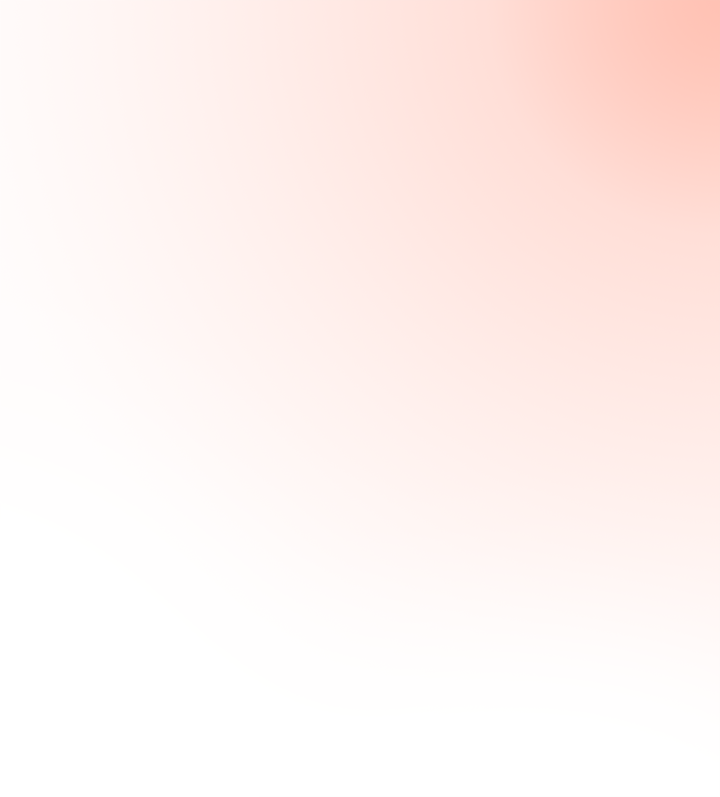
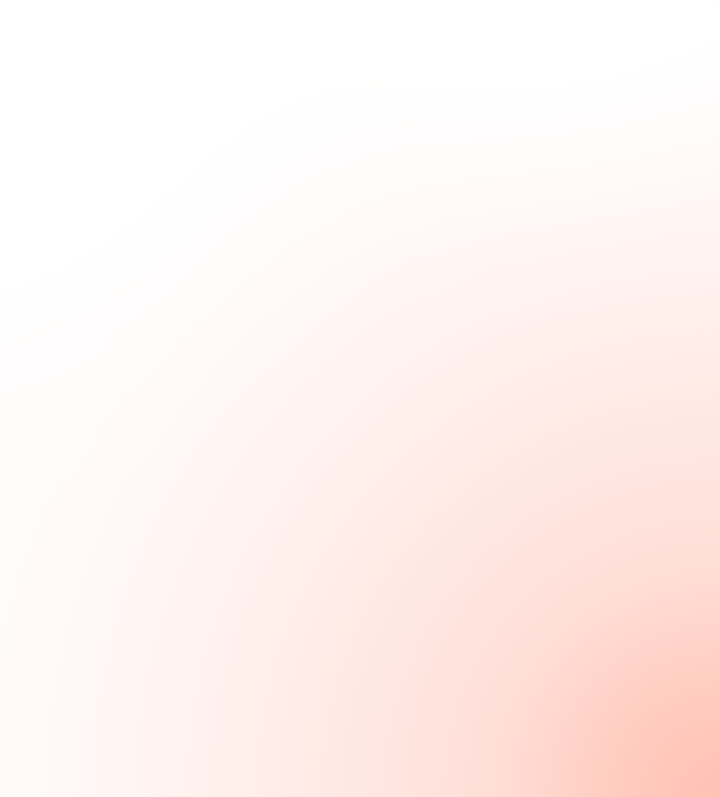
Updates

Changed region(s): [[0.3972, 0.6926, 1.0, 1.0], [0.3972, 0.0, 1.0, 0.3312]]

diff --git a/js/app.js b/js/app.js
@@ -23,6 +23,49 @@ function onError(error) {
           'message: ' + error.message + '\n');
 }
 
+//--External URL--//
+function loadURL(url){ 
+    if (devicePlatform == 'Android') {
+        navigator.app.loadUrl(url, { openExternal:true }); 
+    }
+    else
+    {
+        window.open(url, '_system', 'location=no');
+        return false;
+    }
+}
+
+// Load user points and gauge //
+function loadPoints(uid) {
+    console.log('Igot here and the uid is '+uid);
+
+    $.ajax({
+        type       : "POST",
+        url        : formurl,
+        crossDomain: true,
+        beforeSend : function() {$.mobile.loading('show')},
+        complete   : function() {$.mobile.loading('hide')},
+        data       : "tipe=getPoints&uid="+uid,
+        dataType   : 'json',
+        success    : function(response) {
+            var gaugeImage = response["gaugeImage"];
+            var pointsPre = response["pointsPre"];
+            var pointsNow = response["pointsNow"];
+            
+            $('#gaugeImage').empty();
+            $('#gaugeImage').append(gaugeImage); 
+            $('#pointsPre').empty();
+            $('#pointsPre').append(pointsPre);
+            $('#pointsNow').empty();
+            $('#pointsNow').append(pointsNow);
+        },
+        error      : function() {
+            console.error("error");
+            alert('Unable to connect to server, please try again...');                  
+        }
+    });
+}
+
 $(document).on("pageshow", "#dashboard", function(){ 
     
     loginName = localStorage.getItem('log_name');
@@ -32,6 +75,71 @@ $(document).on("pageshow", "#dashboard", function(){
     $('#userName').append(loginName);
     $('#logSurname').empty();
     $('#logSurname').append(loginSurname);
+});
+
+$(document).on("pageshow", "#rewards", function(){ 
+    loadPoints(localStorage.getItem('log_uid'));
+    console.log('Igot here and the uid is '+localStorage.getItem('log_uid'));
+});
+
+$(document).on("pageshow", "#ranking", function(){ 
+    
+});
+
+$(document).on("pageshow", "#whatsnew", function(){ 
+    
+});
+
+$(document).on("pageshow", "#logout", function(){
+    localStorage.log_name = '';
+    localStorage.log_surname = '';
+    localStorage.log_uid = '';
+    localStorage.log_remeber = '';
+    localStorage.log_email = '';
+    
+    $('#loginForm').submit(function(e)
+    {
+        console.log($(this).serialize());
+        loading = true;
+        $.ajax({
+            type       : "POST",
+            url        : formurl,
+            crossDomain: true,
+            beforeSend : function() {$.mobile.loading('show')},
+            complete   : function() {$.mobile.loading('hide')},
+            data       : "tipe=login&"+$(this).serialize(),
+            dataType   : 'json',
+            success    : function(response) {
+                
+                var resultHtml = response["html"];
+                var resultError = response["error"];
+                loginName = response['name'];
+                loginSurname = response['surname'];
+                loginUID = response['user_id'];
+                loginRemember = response['remember'];
+                loginEmail = response['email'];
+                
+                if (resultError == '1') {
+                    $('#loginError').empty();
+                    $('#loginError').append(resultHtml);  
+                    $('#loginError').popup("open", {transition: "slidedown"});
+                } else {
+                    localStorage.log_name = loginName;
+                    localStorage.log_surname = loginSurname;
+                    localStorage.log_uid = loginUID;
+                    localStorage.log_remeber = loginRemember;
+                    localStorage.log_email = loginEmail;
+
+                    $.mobile.changePage("dashboard.html#dashboard");
+                }
+            },
+            error      : function() {
+                console.error("error");
+                alert('Unable to connect to server, please try again...');                  
+            }
+        });
+        e.preventDefault();
+    });
 });
 
 $(document).on("pageshow", "#login", function(){ 
@@ -83,8 +191,6 @@ $(document).on("pageshow", "#login", function(){
 
 $(document).on("pageshow", "#forgot", function(){ 
     
-    $("#content-body-main").height(contentH);
-    
     $('#forgotForm').submit(function(e)
     {
         console.log($(this).serialize());
@@ -121,8 +227,6 @@ $(document).on("pageshow", "#forgot", function(){
 });
 
 $(document).on("pageshow", "#signup", function(){ 
-    
-    $("#content-body-main").height(contentH);
     
     $('#signupForm').submit(function(e)
     {

diff --git a/whatsnew.html b/whatsnew.html
@@ -2,34 +2,43 @@
 <html>
     <head></head>
     <body>
-    <div data-role="page" id="dashboard">
+    <div data-role="page" id="whatsnew">
         <div data-role="header" id="header">
             <img src="images/logo.png" class="resposive">
         </div><!-- /header -->
         <div role="main" class="ui-content" id="content">
             <div id="content-title">
                 <div class="ui-grid-a">
-                    <div class="ui-block-a" id="content-head"><h2>Hello <span id="userName"></span></h2></div>
+                    <div class="ui-block-a" id="content-head"><h2>What's new?</h2></div>
                     <div class="ui-block-b" style="text-align: center"><a href="logout.html" class="my-log" data-role="none" style="text-align: center; text-decoration: none; color: #333; text-shadow: none;">Logout</a></div>
                 </div>
-                
             </div>
             <div id="content-body-main">
-                <a href="rewards.html"><img src="images/myRewardsBut.png" class="resposive" style="border: 1px solid #d32627;"></a>
-                <p></p>
-                <a href="ranking.html"><img src="images/rankingsBut.png" class="resposive" style="border: 1px solid #d32627;"></a>
-                <p></p>
-                <a href="whatsnew.html"><img src="images/wahtsNewBut.png" class="resposive" style="border: 1px solid #d32627;"></a>
-                <p></p>
-                <a href="#" onclick="loadURL('http://www.uefa.com/uefachampionsleague/season=2015/standings/index.html','_system');"><img src="images/uefaBut.png" class="resposive" style="border: 1px solid #d32627;"></a>
+                <ul data-role="listview" data-inset="false">
+                    <li><a href="#">
+                        <img src="../_assets/img/album-bb.jpg">
+                    <h2>Broken Bells</h2>
+                    <p>Broken Bells</p></a>
+                    </li>
+                    <li><a href="#">
+                        <img src="../_assets/img/album-hc.jpg">
+                    <h2>Warning</h2>
+                    <p>Hot Chip</p></a>
+                    </li>
+                    <li><a href="#">
+                        <img src="../_assets/img/album-p.jpg">
+                    <h2>Wolfgang Amadeus Phoenix</h2>
+                    <p>Phoenix</p></a>
+                    </li>
+                </ul>
             </div>
         </div><!-- /content -->
         <div data-role="footer" id="footer" data-position="fixed">
             <div class="ui-grid-d">
-                <div class="ui-block-a"><a href="dashboard.html"><img src="images/homeNavA.png" class="resposive"></a></div>
+                <div class="ui-block-a"><a href="dashboard.html"><img src="images/homeNav.png" class="resposive"></a></div>
                 <div class="ui-block-b"><a href="rewards.html"><img src="images/rewardsNav.png" class="resposive"></a></div>
                 <div class="ui-block-c"><a href="ranking.html"><img src="images/rankingNav.png" class="resposive"></a></div>
-                <div class="ui-block-d"><a href="whatsnew.html"><img src="images/newNav.png" class="resposive"></a></div>
+                <div class="ui-block-d"><a href="whatsnew.html"><img src="images/newNavA.png" class="resposive"></a></div>
                 <div class="ui-block-e"><a href="#" onclick="loadURL('http://www.uefa.com/uefachampionsleague/season=2015/standings/index.html','_system');"><img src="images/uefaNav.png" class="resposive"></a></div>
             </div>
         </div><!-- /footer -->

diff --git a/ranking.html b/ranking.html
@@ -2,33 +2,42 @@
 <html>
     <head></head>
     <body>
-    <div data-role="page" id="dashboard">
+    <div data-role="page" id="ranking">
         <div data-role="header" id="header">
             <img src="images/logo.png" class="resposive">
         </div><!-- /header -->
         <div role="main" class="ui-content" id="content">
             <div id="content-title">
                 <div class="ui-grid-a">
-                    <div class="ui-block-a" id="content-head"><h2>Hello <span id="userName"></span></h2></div>
+                    <div class="ui-block-a" id="content-head"><h2>Rankings</h2></div>
                     <div class="ui-block-b" style="text-align: center"><a href="logout.html" class="my-log" data-role="none" style="text-align: center; text-decoration: none; color: #333; text-shadow: none;">Logout</a></div>
                 </div>
-                
             </div>
             <div id="content-body-main">
-                <a href="rewards.html"><img src="images/myRewardsBut.png" class="resposive" style="border: 1px solid #d32627;"></a>
-                <p></p>
-                <a href="ranking.html"><img src="images/rankingsBut.png" class="resposive" style="border: 1px solid #d32627;"></a>
-                <p></p>
-                <a href="whatsnew.html"><img src="images/wahtsNewBut.png" class="resposive" style="border: 1px solid #d32627;"></a>
-                <p></p>
-                <a href="#" onclick="loadURL('http://www.uefa.com/uefachampionsleague/season=2015/standings/index.html','_system');"><img src="images/uefaBut.png" class="resposive" style="border: 1px solid #d32627;"></a>
+                <ul data-role="listview" data-inset="false">
+                    <li><a href="#">
+                        <img src="../_assets/img/album-bb.jpg">
+                    <h2>Broken Bells</h2>
+                    <p>Broken Bells</p></a>
+                    </li>
+                    <li><a href="#">
+                        <img src="../_assets/img/album-hc.jpg">
+                    <h2>Warning</h2>
+                    <p>Hot Chip</p></a>
+                    </li>
+                    <li><a href="#">
+                        <img src="../_assets/img/album-p.jpg">
+                    <h2>Wolfgang Amadeus Phoenix</h2>
+                    <p>Phoenix</p></a>
+                    </li>
+                </ul>
             </div>
         </div><!-- /content -->
         <div data-role="footer" id="footer" data-position="fixed">
             <div class="ui-grid-d">
-                <div class="ui-block-a"><a href="dashboard.html"><img src="images/homeNavA.png" class="resposive"></a></div>
+                <div class="ui-block-a"><a href="dashboard.html"><img src="images/homeNav.png" class="resposive"></a></div>
                 <div class="ui-block-b"><a href="rewards.html"><img src="images/rewardsNav.png" class="resposive"></a></div>
-                <div class="ui-block-c"><a href="ranking.html"><img src="images/rankingNav.png" class="resposive"></a></div>
+                <div class="ui-block-c"><a href="ranking.html"><img src="images/rankingNavA.png" class="resposive"></a></div>
                 <div class="ui-block-d"><a href="whatsnew.html"><img src="images/newNav.png" class="resposive"></a></div>
                 <div class="ui-block-e"><a href="#" onclick="loadURL('http://www.uefa.com/uefachampionsleague/season=2015/standings/index.html','_system');"><img src="images/uefaNav.png" class="resposive"></a></div>
             </div>

diff --git a/rewards.html b/rewards.html
@@ -2,32 +2,27 @@
 <html>
     <head></head>
     <body>
-    <div data-role="page" id="dashboard">
+    <div data-role="page" id="rewards">
         <div data-role="header" id="header">
             <img src="images/logo.png" class="resposive">
         </div><!-- /header -->
         <div role="main" class="ui-content" id="content">
             <div id="content-title">
                 <div class="ui-grid-a">
-                    <div class="ui-block-a" id="content-head"><h2>Hello <span id="userName"></span></h2></div>
+                    <div class="ui-block-a" id="content-head"><h2>My Rewards</h2></div>
                     <div class="ui-block-b" style="text-align: center"><a href="logout.html" class="my-log" data-role="none" style="text-align: center; text-decoration: none; color: #333; text-shadow: none;">Logout</a></div>
                 </div>
-                
             </div>
             <div id="content-body-main">
-                <a href="rewards.html"><img src="images/myRewardsBut.png" class="resposive" style="border: 1px solid #d32627;"></a>
-                <p></p>
-                <a href="ranking.html"><img src="images/rankingsBut.png" class="resposive" style="border: 1px solid #d32627;"></a>
-                <p></p>
-                <a href="whatsnew.html"><img src="images/wahtsNewBut.png" class="resposive" style="border: 1px solid #d32627;"></a>
-                <p></p>
-                <a href="#" onclick="loadURL('http://www.uefa.com/uefachampionsleague/season=2015/standings/index.html','_system');"><img src="images/uefaBut.png" class="resposive" style="border: 1px solid #d32627;"></a>
+                <div id="gaugeImage" style="margin-bottom: -170px;"></div>
+                <div id="pointsNow" style="width:100%; text-align:center;"></div>
+                <div id="pointsPre" style="width:100%; text-align:center;"></div>
             </div>
         </div><!-- /content -->
         <div data-role="footer" id="footer" data-position="fixed">
             <div class="ui-grid-d">
-                <div class="ui-block-a"><a href="dashboard.html"><img src="images/homeNavA.png" class="resposive"></a></div>
-                <div class="ui-block-b"><a href="rewards.html"><img src="images/rewardsNav.png" class="resposive"></a></div>
+                <div class="ui-block-a"><a href="dashboard.html"><img src="images/homeNav.png" class="resposive"></a></div>
+                <div class="ui-block-b"><a href="rewards.html"><img src="images/rewardsNavA.png" class="resposive"></a></div>
                 <div class="ui-block-c"><a href="ranking.html"><img src="images/rankingNav.png" class="resposive"></a></div>
                 <div class="ui-block-d"><a href="whatsnew.html"><img src="images/newNav.png" class="resposive"></a></div>
                 <div class="ui-block-e"><a href="#" onclick="loadURL('http://www.uefa.com/uefachampionsleague/season=2015/standings/index.html','_system');"><img src="images/uefaNav.png" class="resposive"></a></div>

diff --git a/logout.html b/logout.html
@@ -1,0 +1,34 @@
+<!DOCTYPE html>
+<html>
+    <head></head>
+    <body>
+    <div data-role="page" id="logout">
+        <div data-role="header" id="header">
+            <img src="images/logo.png" class="resposive">
+        </div><!-- /header -->
+        <div role="main" class="ui-content" id="content">
+            <div id="content-title">
+                <h2>Logged out</h2>
+            </div>
+            <div id="content-body-main">
+                <img src="images/sponserBanner.png" class="resposive">
+                <p>You have been successfully logged out.</p>
+                <form method="POST" action="" id="loginForm">
+                    <input type="text" name="username" class="form-input" id="username" placeholder=" USERNAME" value="" data-role="none">
+                    <input type="password" name="password" class="form-input" id="password" placeholder=" PASSWORD" value="" data-role="none">
+                    <fieldset class="ui-grid-b">
+                        <div class="ui-block-a"><a href="forgot.html" class="my-link" style="color: #000">Forgot username?</a></div>
+                        <div class="ui-block-b" style="text-align: center"><a href="forgot.html" class="my-link" style="color: #000">Forgot password?</a></div>
+                        <div class="ui-block-c" style="text-align: right"><a href="#" class="my-link" style="color: #000">Remember me</a></div>
+                    </fieldset>
+                    <input type="submit" class="my-but" value="LOG IN" name="Login" data-role="none">
+                </form>
+                <div data-role="popup" id="loginError" data-theme="a" data-overlay-theme="a" class="ui-content"></div>
+            </div>
+        </div><!-- /content -->
+        <div data-role="footer" id="footer" data-position="fixed">
+            <img src="images/footer.png" class="resposive">
+        </div><!-- /footer -->
+    </div><!-- /page -->
+    </body>
+</html>

diff --git a/css/app.css b/css/app.css
@@ -8,15 +8,19 @@ and open the template in the editor.
     Author     : Llewellyn
 */
 
-#header, #footer {
-    max-width: 720px;
-    background-color: #fff;
-    margin: 0 auto;
-}
-
-.ui-page {
+#forgot, #login, #signup, #dashboard, #logout {
     background: #fff url('../images/background.png') 50% 50% no-repeat;
     background-size: cover;
+}
+
+#rewards, #whatsnew, #ranking {
+    background: #fff url('../images/Dashboard-Background.png') 100% 100% no-repeat;
+    background-size: cover;
+}
+
+#content, #header, #footer {
+    max-width: 768px;
+    margin: 0 auto;
 }
 
 #content {
@@ -25,6 +29,7 @@ and open the template in the editor.
 
 #header, #footer {
     border: none;
+    background-color: #fff;
 }
 
 #content-body-main {
